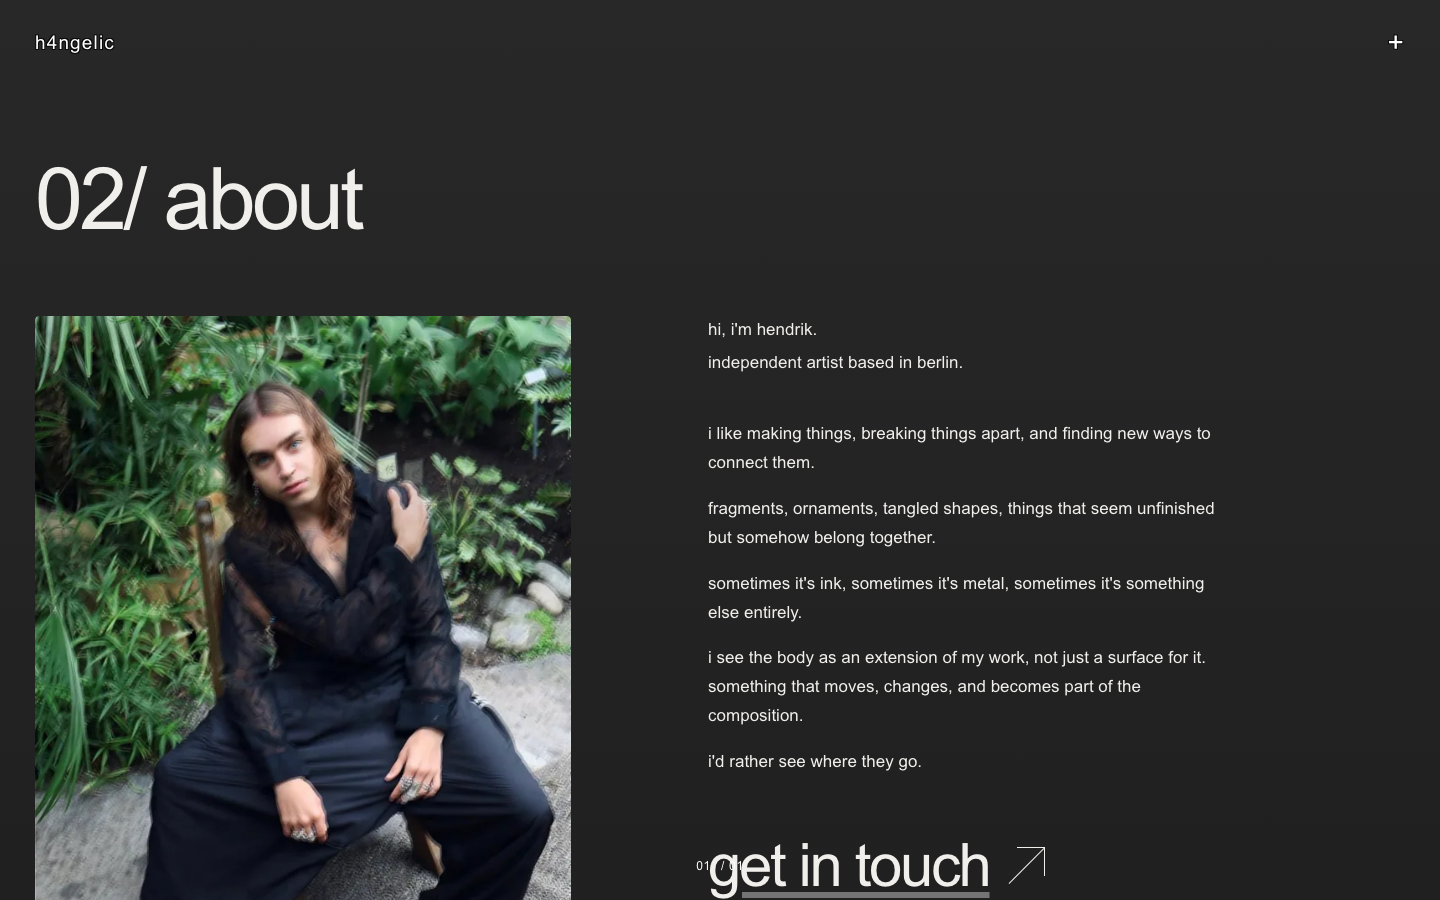
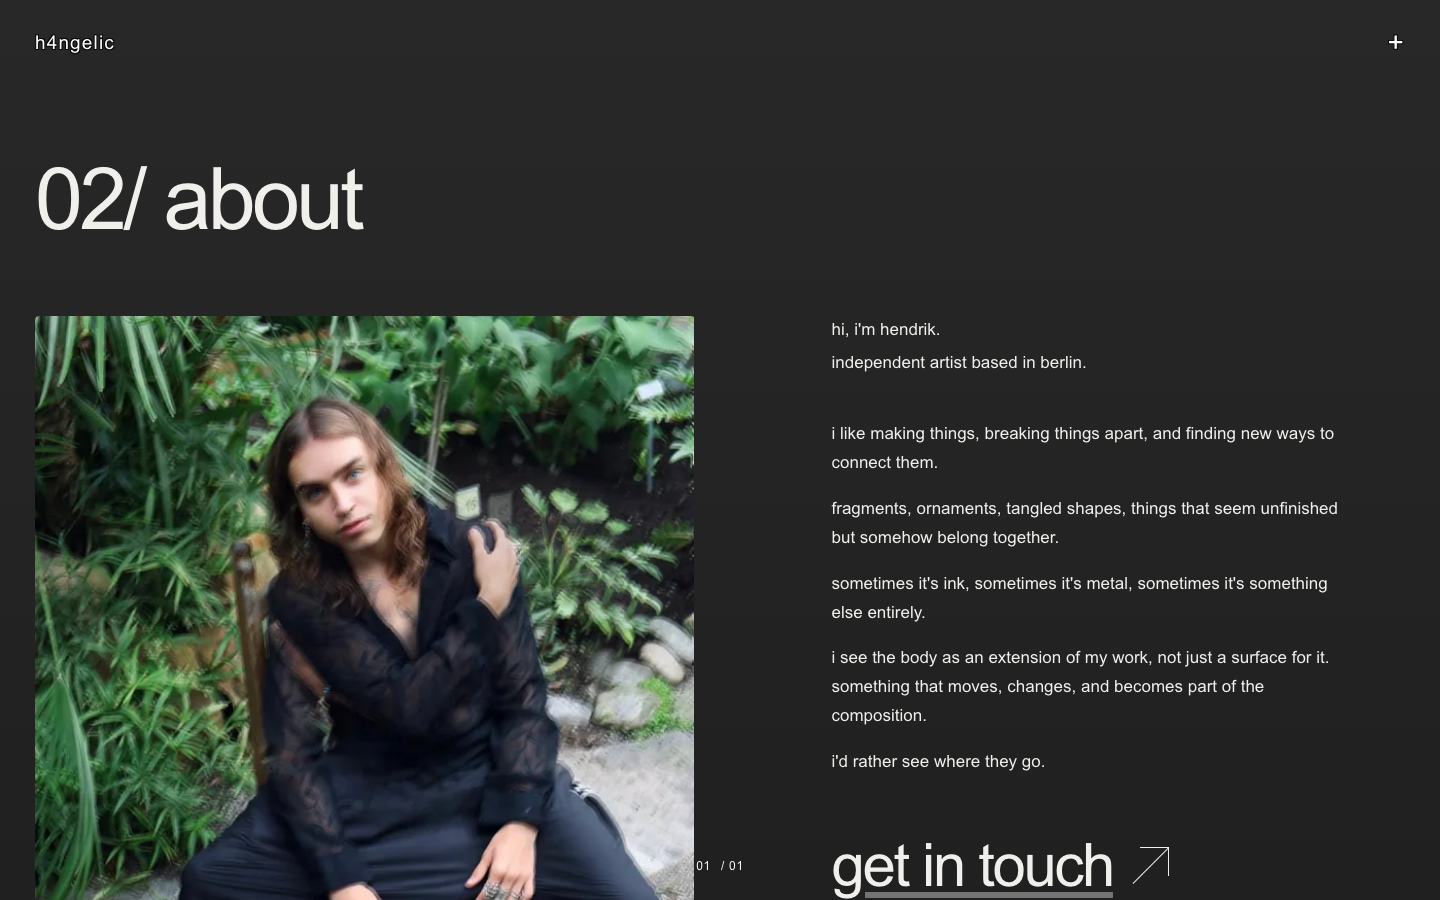
about: give the portrait the wider column, flush under the heading

Changed region(s): [[0.0, 0.3422, 0.9375, 1.0]]

diff --git a/src/style.css b/src/style.css
@@ -127,7 +127,7 @@ html:not([data-page='home']) .hero-nav { display: none; }
 .project-details dt { color: #b9b9b4; }
 .project-details dd { margin: 0; }
 .about-layout { max-width: 1020px; margin-left: auto; }
-.about-layout.has-portrait { max-width: none; display: grid; grid-template-columns: minmax(0, 1fr) minmax(0, 1.3fr); gap: 10%; }
+.about-layout.has-portrait { max-width: none; display: grid; grid-template-columns: minmax(0, 1.15fr) minmax(min(320px, 100%), 1fr); gap: 10%; }
 /* The greeting, the location line and the paragraphs are one text size. The
    portrait leads the grid; the copy keeps the wider column beside it. */
 .about-intro, .about-location, .about-paragraph { font-size: 17px; line-height: 1.7; letter-spacing: normal; }

diff --git a/docs/validation/ABOUT-UNIFY/README.md b/docs/validation/ABOUT-UNIFY/README.md
@@ -71,8 +71,13 @@ sind entfallen, weil die Werte jetzt in beiden Breiten gleich sind.
   (`src/data/imageManifest.json`, `public/images/optimized/portrait-b8cb1f4d172f-*`).
   Ausgeliefert: 640er WebP bei 1440 (536 CSS px), 640 bei 390 (346 px), 320 bei 320 (276 px).
 - Platzierung: Portrait **vor** dem Textblock. Desktop zweispaltig
-  (Bild links, Text rechts: `minmax(0, 1fr) minmax(0, 1.3fr)`, 10 % Gap),
-  Mobile gestapelt (`grid-template-columns: 1fr`, 45 px Gap).
+  (Bild links, Text rechts: `minmax(0, 1.15fr) minmax(min(320px, 100%), 1fr)`,
+  10 % Gap — das Bild ist damit die größere Spalte), Mobile gestapelt
+  (`grid-template-columns: 1fr`, 45 px Gap).
+- Das Bild beginnt **auf der Kopfzeilen-Achse**: `portrait.left` − `heading.left`
+  = 0,00 px bei 1920/1440/1280/1024/768/390/320. Größe: 890 × 1164 px (1920),
+  660 × 862 (1440), 583 × 761 (1280), 459 × 600 (1024), 308 × 403 (768),
+  346 × 452 (390), 276 × 361 (320). Die Textspalte behält mindestens 320 px.
 - Alt-Text: `hendrik sitting on a chair among plants.` — beschreibt nur das Foto.
 - `loading="lazy"`, `decoding="async"`, `width`/`height` aus dem Manifest.
 - Ecken: `border-radius: var(--radius-soft)` (4 px) auf Figure **und** Bild,
